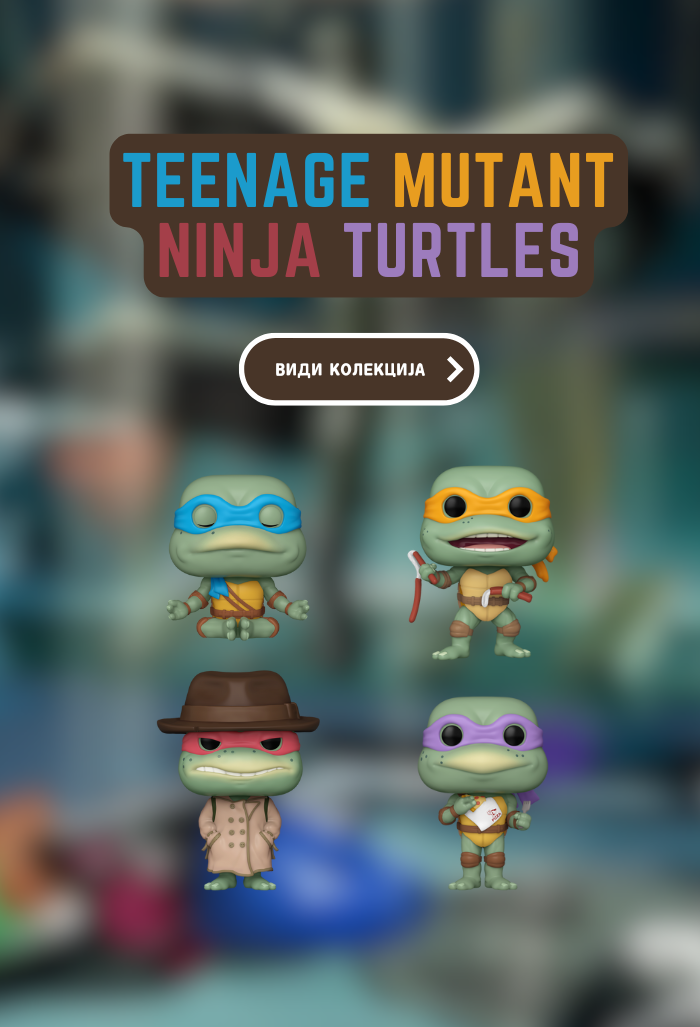
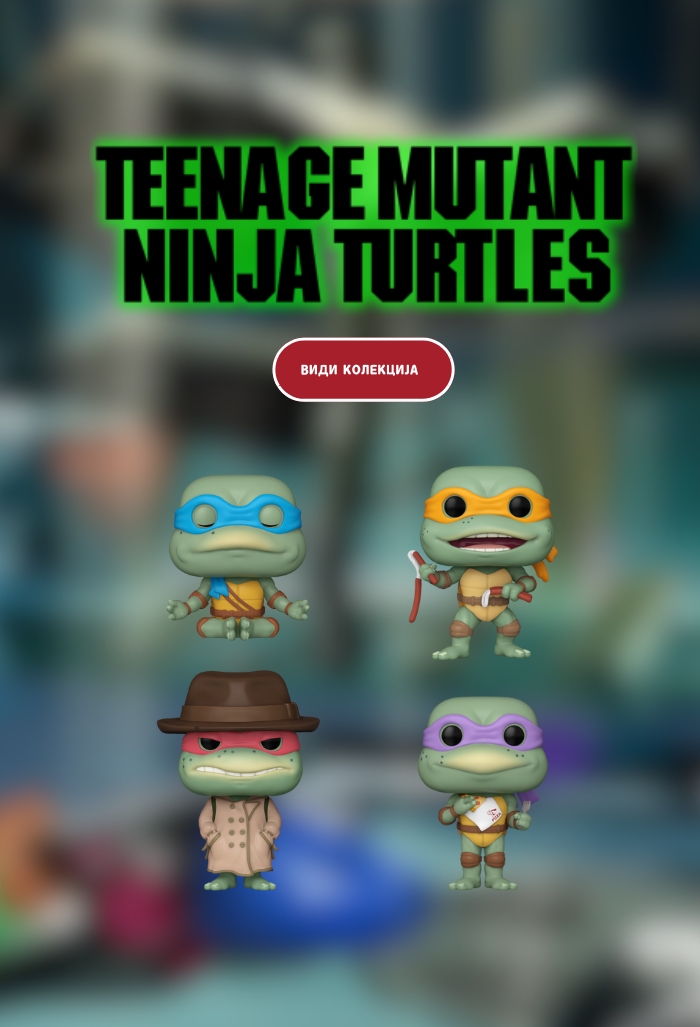
image sliders update

Changed region(s): [[0.12, 0.1246, 0.93, 0.4051]]

diff --git a/src/data/CarouselImages.ts b/src/data/CarouselImages.ts
@@ -6,34 +6,34 @@ export interface CarouselImages {
 }
 
 export const funkoImagesSlider1: CarouselImages[] = [
-    { src: '/jack-sparrow.png', width: 1800, height: 600, link: "/catalog?searchFilter=jack+sparrow&page=0"},
-    { src: '/3.png', width: 1800, height: 600, link: "/catalog?searchFilter=Teenage+Mutant+Ninja+Turtles&page=0&productStatusFilter=NEW_ARRIVAL" },
-    { src: '/house-of-the-dragon.png', width: 1800, height: 600, link: "/catalog?searchFilter=house+of+the+dragon&page=0"},
-    { src: '/lotr.png', width: 1800, height: 600, link: "/catalog?searchFilter=lord+of+the+rings&page=0"},
-    { src: '/2.png', width: 1800, height: 600, link: "/catalog?searchFilter=Funko+POP%21+Marvel%3A+Spider-Man+2&page=0"}
+    { src: '/main/14.png', width: 1800, height: 600, link: "/catalog?searchFilter=league+of+legends&page=0"},
+    { src: '/main/11.png', width: 1800, height: 600, link: "/catalog?searchFilter=john+wick&page=0"},
+    { src: '/main/15.png', width: 1800, height: 600, link: "/catalog?searchFilter=arcane&page=0"},
+    { src: '/main/12.png', width: 1800, height: 600, link: "/catalog?searchFilter=oracle+red+bull&page=0" },
+    { src: '/main/13.png', width: 1800, height: 600, link: "/product/1863"},
 ];
 
 export const funkoImagesSlider2: CarouselImages[] = [
-    { src: '/spider-man-across-the-spider-verse.png', width: 1800, height: 600, link: "/catalog?searchFilter=Spider-Man+Across+the+Spider-Verse&page=0" },
-    { src: '/wednesday.png', width: 1800, height: 600, link: "/catalog?searchFilter=wednesday&page=0" },
-    { src: '/4.png', width: 1800, height: 600, link: "/catalog?searchFilter=nba&page=0&productStatusFilter=PREORDER"},
-    { src: '/1.png', width: 1800, height: 600, link: "/catalog?searchFilter=chainsaw+man&page=0&productStatus=Сите"  },
-    { src: '/invinicble.png', width: 1800, height: 600, link: "/catalog?searchFilter=invincible&page=0"},
+    { src: '/main/17.png', width: 1800, height: 600, link: "/catalog?searchFilter=brooklyn+nine&page=0" },
+    { src: '/main/16.png', width: 1800, height: 600, link: "/catalog?searchFilter=friends&page=0" },
+    { src: '/main/5.png', width: 1800, height: 600, link: "/catalog?searchFilter=Spider-Man+Across+the+Spider-Verse&page=0" },
+    { src: '/main/4.png', width: 1800, height: 600, link: "/catalog?searchFilter=teenage+mutant+ninja+turtles&page=0" },
+    { src: '/main/9.png', width: 1800, height: 600, link: "/catalog?searchFilter=invincible&page=0"},
 ]
 
 export const funkoImagesResponsiveSlider1: CarouselImages[] = [
-    { src: '/responsive/10.png',  width: 700, height: 1027, link: "/catalog?searchFilter=jack+sparrow&page=0"},
-    { src: '/responsive/4.png',  width: 700, height: 1027, link: "/catalog?searchFilter=Teenage+Mutant+Ninja+Turtles&page=0&productStatusFilter=NEW_ARRIVAL" },
-    { src: '/responsive/2.png',  width: 700, height: 1027, link: "/catalog?searchFilter=house+of+the+dragon&page=0"},
-    { src: '/responsive/6.png',  width: 700, height: 1027, link: "/catalog?searchFilter=lord+of+the+rings&page=0"},
-    { src: '/responsive/3.png',  width: 700, height: 1027, link: "/catalog?searchFilter=Funko+POP%21+Marvel%3A+Spider-Man+2&page=0"}
+    { src: '/responsive/14.png',  width: 700, height: 1027, link: "/catalog?searchFilter=league+of+legends&page=0" },
+    { src: '/responsive/11.png',  width: 700, height: 1027, link: "/catalog?searchFilter=john+wick&page=0" },
+    { src: '/responsive/15.png',  width: 700, height: 1027, link: "/catalog?searchFilter=arcane&page=0"},
+    { src: '/responsive/12.png',  width: 700, height: 1027, link: "/catalog?searchFilter=oracle+red+bull&page=0"},
+    { src: '/responsive/13.png',  width: 700, height: 1027, link: "/product/1863"}
 ]
 
 export const funkoImagesResponsiveSlider2: CarouselImages[] = [
+    { src: '/responsive/17.png', width: 700, height: 1027, link: "/catalog?searchFilter=brooklyn+nine&page=0" },
+    { src: '/responsive/16.png', width: 700, height: 1027, link: "/catalog?searchFilter=friends&page=0" },
     { src: '/responsive/5.png', width: 700, height: 1027, link: "/catalog?searchFilter=Spider-Man+Across+the+Spider-Verse&page=0" },
-    { src: '/responsive/8.png',  width: 700, height: 1027, link: "/catalog?searchFilter=wednesday&page=0" },
-    { src: '/responsive/7.png',  width: 700, height: 1027, link: "/catalog?searchFilter=nba&page=0&productStatusFilter=PREORDER"},
-    { src: '/responsive/1.png',  width: 700, height: 1027, link: "/catalog?searchFilter=chainsaw+man&page=0&productStatus=Сите"  },
+    { src: '/responsive/4.png', width: 700, height: 1027, link: "/catalog?searchFilter=teenage+mutant+ninja+turtles&page=0" },
     { src: '/responsive/9.png', width: 700, height: 1027, link: "/catalog?searchFilter=invincible&page=0"},
 ]
 
